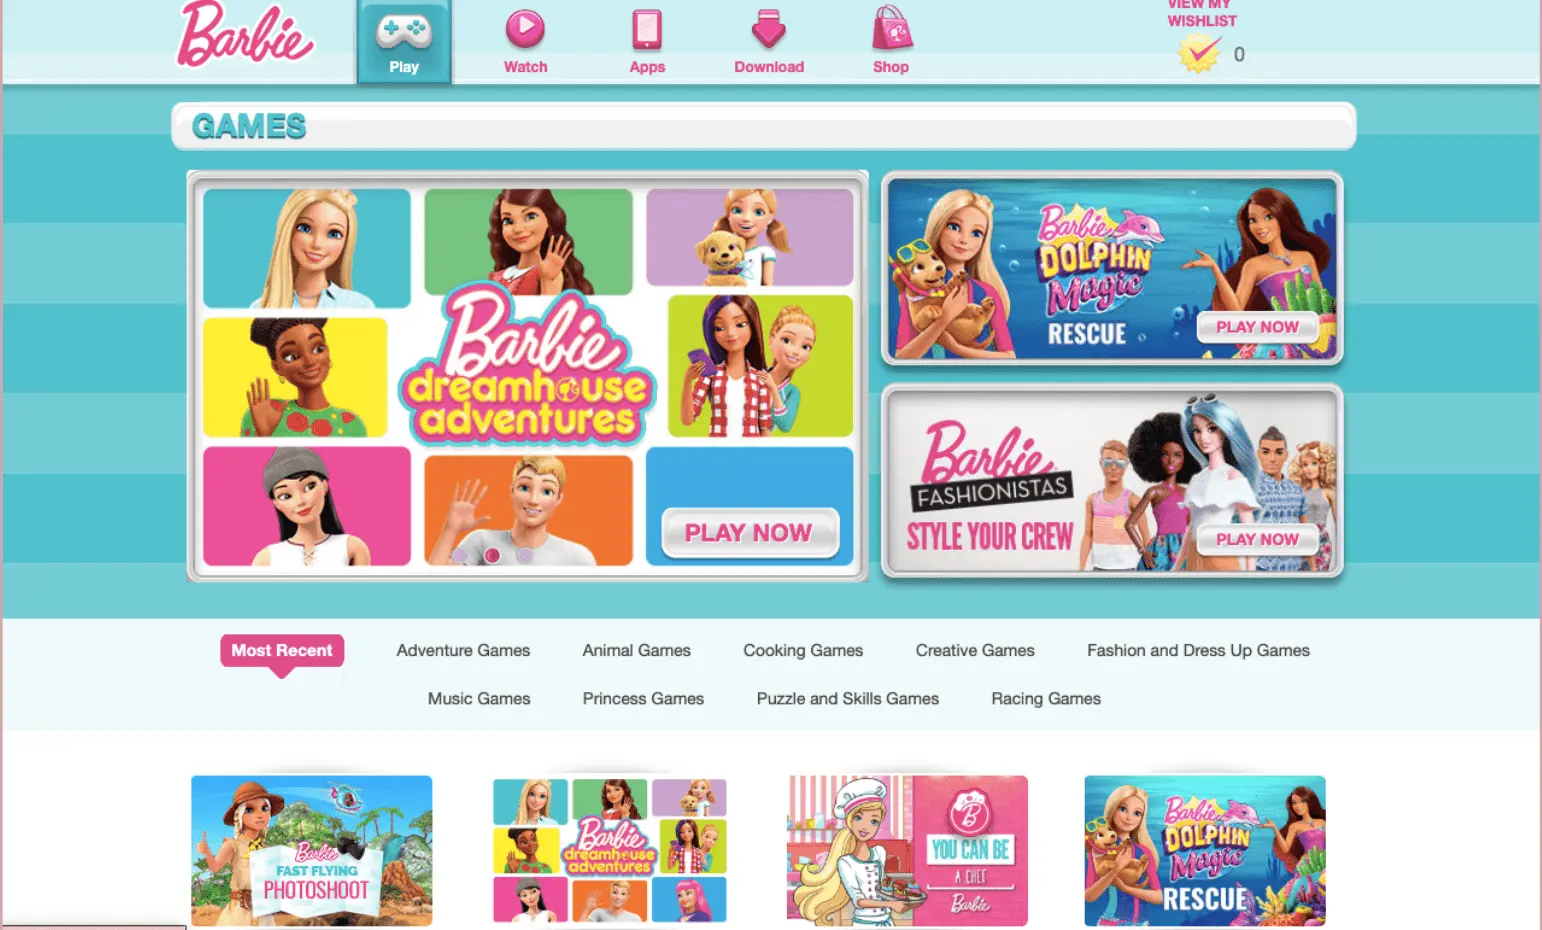
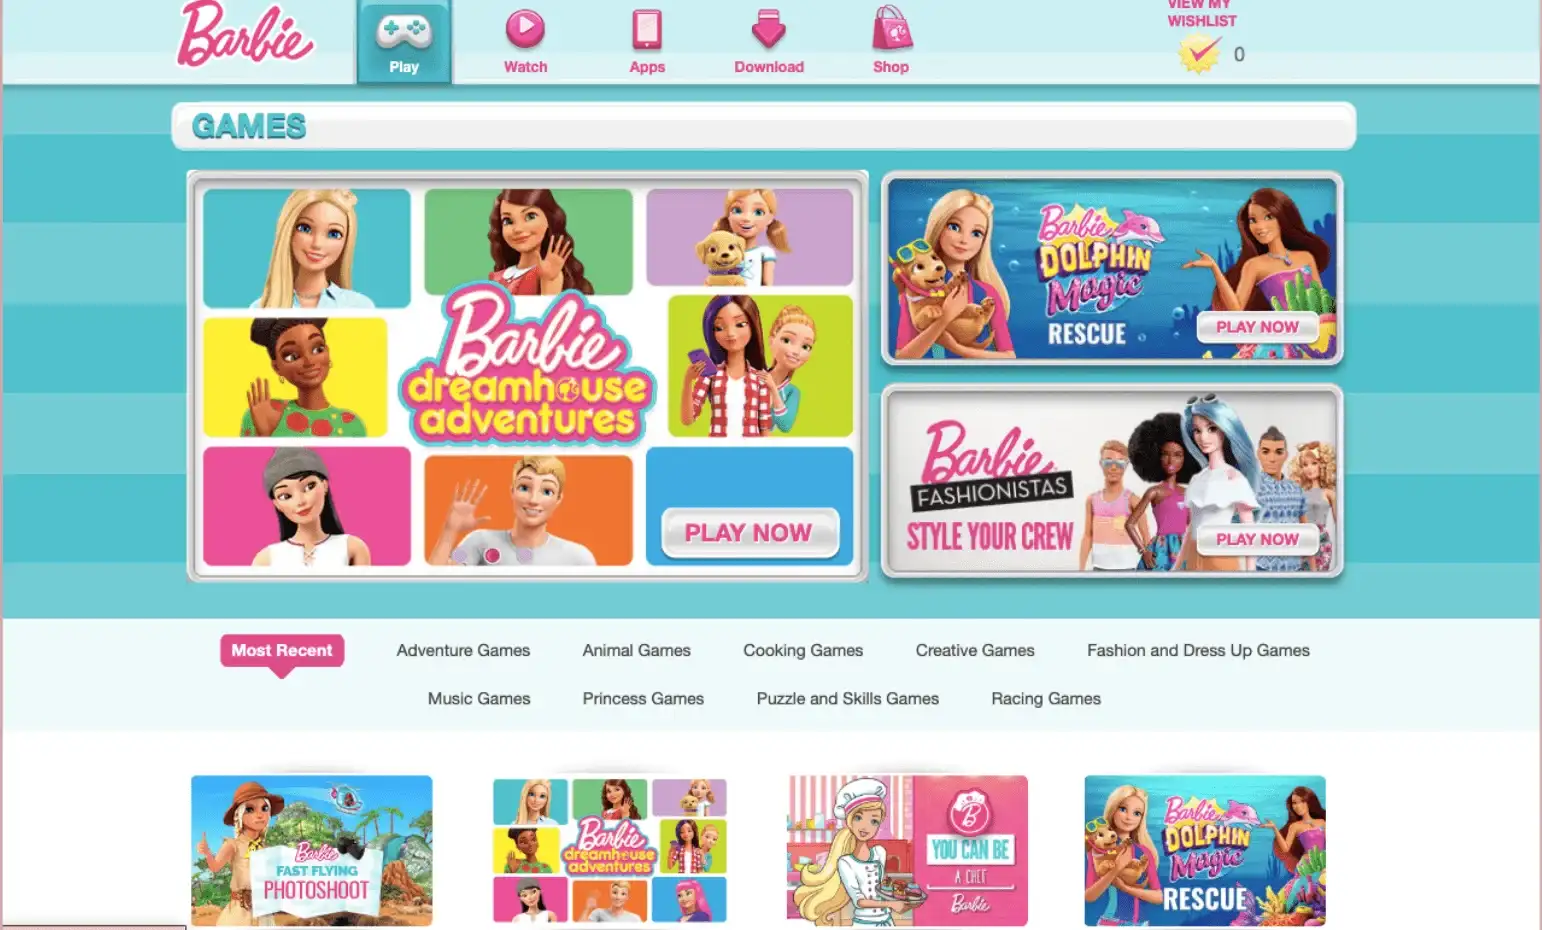
change pic formats

diff --git a/app/utils/projectData.ts b/app/utils/projectData.ts
@@ -7,7 +7,7 @@ export const projectData: Record<string, ProjectDataType>=
         shortDescription:"Web application",
         description:"Developed web applications for monitoring the status of a chain of processes performed by QoreAudit, with the web app designed to be a Progressive Web App (PWA). The applications aimed to provide users with real-time insights into the status and performance of the auditing processes, enhancing monitoring and decision-making capabilities.",
         logo: 'coginov-logo.webp',
-        image:'qoreaudit.png',
+        image:'qoreaudit.webp',
         skills: ['Git','Github','HTML','CSS','Javascript','Typescript', 'React', 'NodeJs', '.NET'],
         company:"Coginov",
         years:[2022,2023,2024],
@@ -19,7 +19,7 @@ export const projectData: Record<string, ProjectDataType>=
         shortDescription:"Sharepoint extension",
         description:"Developed a set of SharePoint extensions that enable the transfer of data stored in SharePoint to QoreUltima, a content processing application. The extensions facilitated seamless integration between SharePoint and QoreUltima, allowing for the efficient processing and management of content across both platforms.",
         logo: 'coginov-logo.webp',
-        image:'extension.png',
+        image:'extension.webp',
         skills: ['Git','Github','HTML','CSS','Javascript','Typescript', 'React', 'Sharepoint'],
         company:"Coginov",
         years:[2023,2024],
@@ -31,7 +31,7 @@ export const projectData: Record<string, ProjectDataType>=
         shortDescription:"Shopify module",
         description:"Implemented several rounds of A/B testing to optimize the signup flow for improved user acquisition and retention. Conducted tests on each step of the signup process to identify and implement changes that would reduce friction and increase conversion rates.",
         logo: 'shopify-logo.webp',
-        image: 'sp-signup.png',
+        image: 'sp-signup.webp',
         skills: ['Git','Github','HTML','CSS','Javascript','Typescript', 'React', 'GraphQl', 'NodeJs'],
         company:"Shopify",
         years:[2021,2023],
@@ -43,7 +43,7 @@ export const projectData: Record<string, ProjectDataType>=
         shortDescription:"Shopify page",
         description: "Developed the redesign and A/B testing of the 'Plan and Prices' page on the Shopify platform to enhance user experience and drive conversions. Implemented data-driven design changes based on user feedback and analytics to optimize the page for increased engagement and sales.",
         logo: 'shopify-logo.webp',
-        image: 'sp-planprices.png',
+        image: 'sp-planprices.webp',
         skills: ['Git','Github','HTML','CSS','Javascript','Typescript', 'React', 'GraphQl', 'NodeJs'],
         company:"Shopify",
         years:[2020,2021],
@@ -66,7 +66,7 @@ export const projectData: Record<string, ProjectDataType>=
         shortDescription:"Web application",
         description: "Created a new web application for Service Enablement, aimed at monitoring and controlling bandwidth usage to allocate resources more efficiently. The application provides a comprehensive suite of tools for administrators to manage and optimize network performance.",
         logo: 'nokia-logo.webp',
-        image: 'nokia.png',
+        image: 'nokia.webp',
         skills: ['Git','Github','HTML','CSS','Javascript','Typescript', 'React' , 'Redux'],
         company:"Nokia",
         years:[2018,2019],
@@ -100,7 +100,7 @@ export const projectData: Record<string, ProjectDataType>=
         shortDescription:"Module for Web app",
         description: "Develop a new Online check-in experience, with the purpose to attract more travelers to use it, the site was developed to support other branches: Online check-in for Celebrity Cruises, and Azamara Cruises.",
         logo: 'royal-logo.webp',
-        image: 'royal.png',
+        image: 'royal.webp',
         skills: ['HTML','CSS','Javascript', 'Typescript', 'Angular2', 'Redux'],
         company:"Club Assist",
         years:[2016,2017],
@@ -112,7 +112,7 @@ export const projectData: Record<string, ProjectDataType>=
         shortDescription:"Website",
         description: "Contributed to the development of the new Barbie.com website in 2013, aimed at providing a modern and engaging online experience for Barbie fans worldwide. The project involved creating a visually appealing design, implementing interactive features, and optimizing the site for performance and usability across different devices.",
         logo: 'fuel-logo.webp',
-        image: 'barbie.png',
+        image: 'barbie.webp',
         skills: ['Git','Github','HTML','CSS','Javascript','Jquery', 'Foundation'],
         company:"Fuel youth",
         years:[2013,2016],
@@ -124,7 +124,7 @@ export const projectData: Record<string, ProjectDataType>=
         shortDescription:"Website",
         description: "Contributed to the development for the launch of the new WBKids.com website. The project aimed to create an immersive and entertaining online experience for kids featuring content from Warner Bros. franchises. Responsibilities included frontend development, implementing interactive features, and ensuring the website's compatibility across different devices.",
         logo: 'fuel-logo.webp',
-        image: 'WBkids.png',
+        image: 'WBkids.webp',
         skills: ['Git','Github','HTML','CSS','Javascript','Jquery', 'Boostrap'],
         company:"Fuel youth",
         years:[2013,2016],

diff --git a/app/project/[id]/page.tsx b/app/project/[id]/page.tsx
@@ -26,7 +26,7 @@ export default function ProjectDetails({ params }: { params: { id: string } }) {
                         className='object-contain'
                         fill
                     /> : <Image
-                        src={`/images/project/default-image.png`}
+                        src={`/images/project/default-image.webp`}
                         alt={t.a11yDefaultPicAlt}
                         className='object-contain'
                         fill
